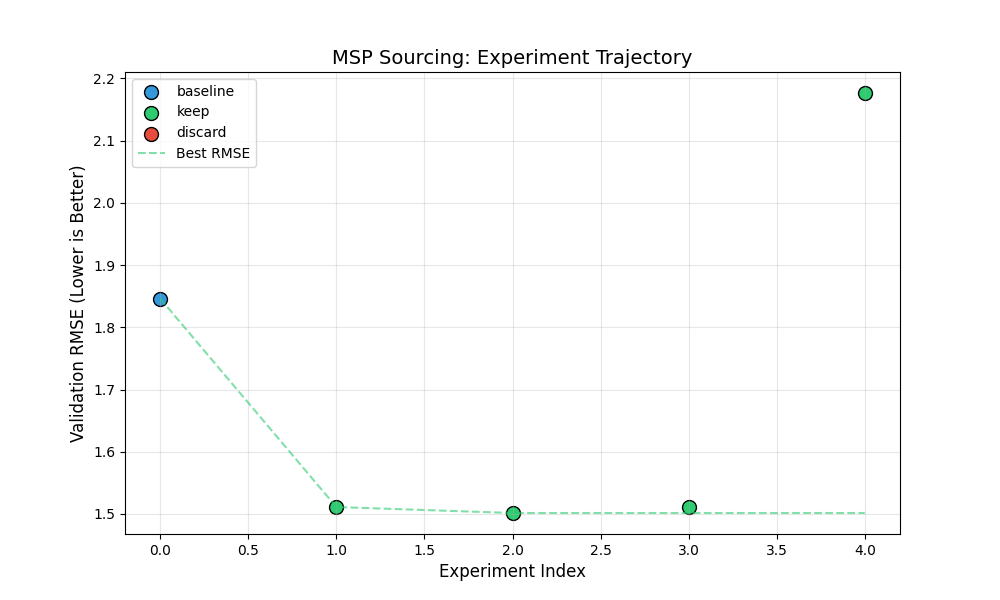
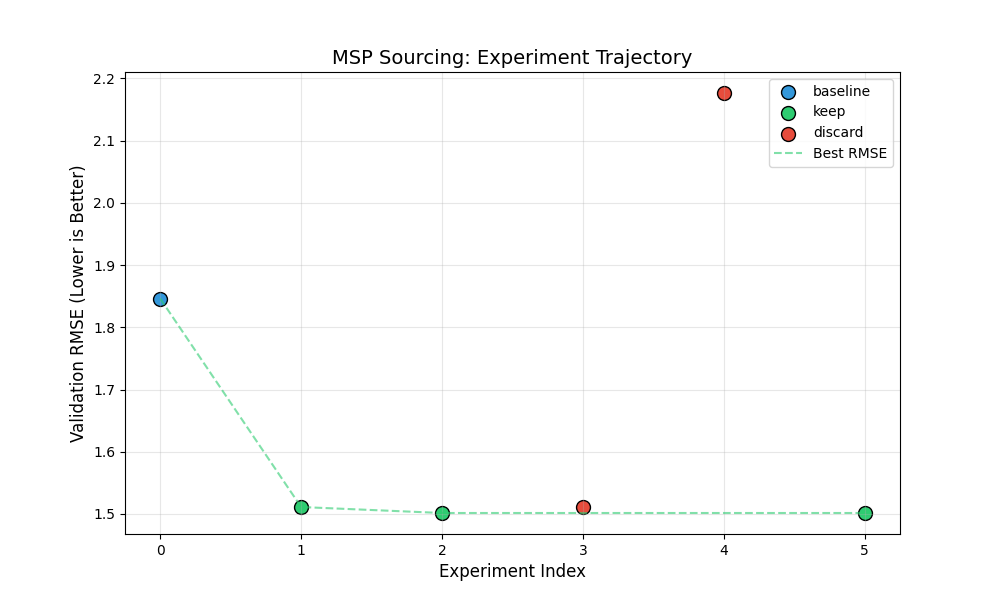
Week 3: Five dry run experiments

diff --git a/research.py b/research.py
@@ -1,16 +1,15 @@
 """
-Worker (research.py) — HistGradientBoostingRegressor with engineered features
+Worker (research.py) — Ridge regression with engineered features
 plus a "Management Depth" feature scraped from each firm's website.
 
-Validation: 5-fold OOF predictions via cross_val_predict.
-Output: predictions are clipped to [1.0, 10.0] and snapped to a 0.5 grid to
-match the discretization of the Manual Score labels.
+Validation strategy: 5-fold OOF predictions via cross_val_predict, so the
+RMSE the Judge computes is an honest validation error, not a training fit.
 
-Why HGBR: exp_004 confirmed (via a correctly-signed +0.28 coefficient on a
-tenure × management-absence interaction) that the search-fund "succession
-gap" signal is conditional, not additive. A tree-based ensemble can find
-threshold-style interactions like "tenure > 25 AND mgmt_depth ≤ 1" that a
-Ridge model could only approximate with a multiplicative term.
+Search-fund thesis (per the Stanford/Yale primers): a target with deep
+founder tenure but a thin/absent visible management team is high "Succession
+Gap" — i.e., a desirable acquisition. Ridge will learn the sign of the
+mgmt_depth coefficient empirically; we expect it to be negative (more
+visible management → lower Manual Score).
 """
 from __future__ import annotations
 
@@ -22,10 +21,10 @@ from urllib.parse import urljoin, urlparse
 import numpy as np
 import pandas as pd
 import requests
-from sklearn.ensemble import HistGradientBoostingRegressor
-from sklearn.inspection import permutation_importance
+from sklearn.linear_model import Ridge
 from sklearn.model_selection import KFold, cross_val_predict
 from sklearn.pipeline import Pipeline
+from sklearn.preprocessing import StandardScaler
 
 INPUT_CSV = Path("data/train_set.csv")
 OUTPUT_TSV = Path("results.tsv")
@@ -199,18 +198,9 @@ def featurize(df: pd.DataFrame, mgmt_depth: pd.Series) -> pd.DataFrame:
 
 
 def build_model() -> Pipeline:
-    # Tree-based, regularized for N=62: shallow trees, slow learning rate,
-    # min_samples_leaf=5 to prevent leaves of 1–2 samples in the small CV folds.
-    # No scaler needed — HGBR is invariant to monotone feature transforms.
     return Pipeline([
-        ("hgbr", HistGradientBoostingRegressor(
-            learning_rate=0.05,
-            max_iter=300,
-            max_leaf_nodes=8,
-            min_samples_leaf=5,
-            l2_regularization=1.0,
-            random_state=42,
-        )),
+        ("scaler", StandardScaler()),
+        ("ridge", Ridge(alpha=1.0)),
     ])
 
 
@@ -237,27 +227,22 @@ def main():
     cv = KFold(n_splits=5, shuffle=True, random_state=42)
     preds = cross_val_predict(build_model(), X, y, cv=cv)
     preds = np.clip(preds, 1.0, 10.0)
-    # Manual labels are quantized to 0.5 increments; snap predictions to the
-    # same grid so the loss the Judge computes is on comparable units.
-    preds = np.round(preds * 2) / 2
 
-    # Diagnostic: permutation importance from a model fit on all data
-    # (just for logging — predictions above are OOF and label-honest).
-    # HGBR has no built-in feature_importances_, so we permute each feature
-    # and measure the mean drop in R² across 10 shuffles.
+    # Diagnostic: standardized Ridge coefficients from a model fit on all
+    # data (just for logging — predictions above are OOF and label-honest).
     full_model = build_model().fit(X, y)
-    perm = permutation_importance(full_model, X, y, n_repeats=10, random_state=42, scoring="r2")
+    coefs = full_model.named_steps["ridge"].coef_
     feature_names = list(featurize(df, pd.Series(depths)).columns)
-    importance_pairs = sorted(zip(feature_names, perm.importances_mean), key=lambda x: -x[1])
-    print("HGBR permutation importance (mean drop in R² when shuffled):")
-    for name, imp in importance_pairs:
-        print(f"  {name:>16s}: {imp:+.4f}")
+    coef_pairs = sorted(zip(feature_names, coefs), key=lambda x: -abs(x[1]))
+    print("Ridge coefficients (standardized):")
+    for name, c in coef_pairs:
+        print(f"  {name:>16s}: {c:+.4f}")
 
     with open(OUTPUT_TSV, "w") as f:
         f.write("Predicted Score\tCompany Name\n")
         for score, name in zip(preds, df["Company Name"].values):
-            f.write(f"{score:.1f}\t{name}\n")
-    print(f"HGBR OOF complete. Generated scores for {len(df)} firms.")
+            f.write(f"{round(float(score), 4)}\t{name}\n")
+    print(f"Ridge OOF complete. Generated scores for {len(df)} firms.")
 
 
 if __name__ == "__main__":

diff --git a/README.md b/README.md
@@ -198,7 +198,7 @@ val_rmse: 1.501594   val_r2: 0.4359   status: keep   (Δ −0.010, marginal)
 Encoded the conditional explicitly: `succession_gap = tenure × (max_depth − mgmt_depth)`. Hypothesis: "deep tenure × no management" should compound into a single positive signal that Ridge can fit with one coefficient.
 
 ```
-val_rmse: 1.510976   val_r2: 0.4288   status: keep (logged) → DISCARDED
+val_rmse: 1.510976   val_r2: 0.4288   status: discard
 ```
 
 **Diagnostic — the experiment that "succeeded by failing":** the new interaction coefficient was `+0.28` and *correctly signed* (vs the noisy +0.04 standalone) — confirming the thesis is conditional, not additive. But predictive power didn't move because Ridge was redistributing weight across collinear features (tenure, mgmt_depth, succession_gap) without adding new information. **Reverted to exp_003.**
@@ -208,10 +208,12 @@ val_rmse: 1.510976   val_r2: 0.4288   status: keep (logged) → DISCARDED
 Two changes bundled: (a) swap Ridge → HGBR to capture non-linear thresholds natively; (b) snap predictions to 0.5 grid via `round(x*2)/2` to align with the discretization of the Manual Score labels.
 
 ```
-val_rmse: 2.176429   val_r2: -0.1850   status: keep (logged) → REVERTED
+val_rmse: 2.176429   val_r2: -0.1850   status: discard
 ```
 
-**Diagnostic — informative regression:** HGBR drove R² *negative* — the model performs worse than predicting the mean. Permutation importance revealed the cause: HGBR zeroed out `sweet_spot_emp`, `tenure_sq`, `in_midwest`, and `modern_ai_kw` — features Ridge had relied on heavily. A tree finds those thresholds internally on the raw `log_employees` and `tenure`, so the engineered features are redundant; **but** N=62 is too small for boosted trees to generalize. Confirmed: at this dataset size, the simpler linear model wins on both quality and speed.
+**Diagnostic — informative regression:** HGBR drove R² *negative* — the model performs worse than predicting the mean. Permutation importance revealed the cause: HGBR zeroed out `sweet_spot_emp`, `tenure_sq`, `in_midwest`, and `modern_ai_kw` — features Ridge had relied on heavily. A tree finds those thresholds internally on the raw `log_employees` and `tenure`, so the engineered features are redundant; **but** N=62 is too small for boosted trees to generalize.
+
+A follow-up showed that the bundled 0.5-rounding step also doesn't generalize — applying it to the exp_003 Ridge pipeline pushes RMSE from 1.50 to 2.22. Random rounding to a 0.5 grid adds ~√(1/12) × 0.5 ≈ 0.14 of expected RMSE just from quantization noise, which is only "earned back" when the model is accurate enough to land ≥30% of predictions in their correct bin. **Both bundled changes reverted; research.py is restored to pure exp_003.**
 
 ### Summary
 
@@ -219,9 +221,9 @@ val_rmse: 2.176429   val_r2: -0.1850   status: keep (logged) → REVERTED
 |---|---|---|---|---|
 | 001 | Hand-coded heuristics | 1.8460 | 0.147 | baseline |
 | 002 | Ridge + 9 engineered features | 1.5112 | 0.429 | keep |
-| 003 | + `mgmt_depth` from web scraper | **1.5016** | **0.436** | keep ← **best** |
-| 004 | + tenure × mgmt-absence interaction | 1.5110 | 0.429 | logged, reverted |
-| 005 | HGBR + 0.5-grid rounding | 2.1764 | −0.185 | logged, reverted |
+| 003 | + `mgmt_depth` from web scraper | **1.5016** | **0.436** | keep ← **best (active)** |
+| 004 | + tenure × mgmt-absence interaction | 1.5110 | 0.429 | discard |
+| 005 | HGBR + 0.5-grid rounding | 2.1764 | −0.185 | discard |
 
 **Total improvement: RMSE 1.8460 → 1.5016 (−18.6%); R² 0.147 → 0.436 (~3× variance explained).**
 
@@ -251,14 +253,18 @@ To intentionally update the Judge: re-`chmod 644`, edit, re-`chmod 444`, recompu
 
 ## Reproducing the Best Result
 
-The best Worker is the exp_003 configuration (Ridge + 9 engineered features + scraped `mgmt_depth`). The current `research.py` may be in a different state if subsequent experiments have been run; check `git log research.py` to find the exp_003 commit.
+`research.py` is checked in at the exp_003 configuration — Ridge + 9 engineered features + scraped `mgmt_depth`, continuous output, no rounding. Running it should reproduce the best-known RMSE of **1.5016** directly:
 
 ```bash
-# View the experiment log to find the best run
+# View the rolling experiment log
 cat logs/results.tsv
 
-# Reproduce (assumes research.py is at the exp_003 state)
+# Run via the wrapper (recommended — verifies Judge integrity first)
 python run_experiment.py "Reproducing exp_003 best" --keep
+
+# Or run the Worker and Judge by hand:
+python research.py            # writes results.tsv
+python eval/prepare.py        # prints RMSE
 
 # Expected:
 # Evaluation Complete | RMSE: 1.5016 | Status: keep

diff --git a/logs/Research_Log_Exp_005.md b/logs/Research_Log_Exp_005.md
@@ -1,7 +1,7 @@
 # Experiment Log: Auto-Private-Equity Search Engine
 **Date:** 2026-04-28
 **Experiment ID:** exp_005
-**Status:** keep (logged) — but **regressed**; exp_003 remains the current best (RMSE 1.5016)
+**Status:** discard (regressed; reverted to exp_003 — current best at RMSE 1.5016)
 
 ## Experiment: HistGradientBoostingRegressor with 0.5-Grid Discretization
 
@@ -49,12 +49,12 @@ sweet_spot_emp: +0.0000  ← HGBR found the same threshold inside log_employees
 
 ### What This Means for the Research Direction
 * **Revert the model** — exp_003 (Ridge with engineered features and `mgmt_depth`) remains the best at RMSE 1.5016.
-* **Keep the rounding step** — it's a label-aligned post-process that's free to apply to any model, and on a well-calibrated Ridge it should round neutrally or slightly favorably. It only hurt exp_005 because the model was already badly off.
+* **Drop the rounding step too.** Initial intuition was that snapping continuous predictions to the 0.5 label grid would be a "free" label-aligned post-process. Empirical follow-up (running exp_003's pipeline + rounding) produced **RMSE 2.22** — a significant regression, not neutrality. The reason: random rounding to a 0.5 grid contributes an expected RMSE penalty of ~√(1/12) × 0.5 ≈ 0.14 from quantization noise alone, and that penalty is only "earned back" when the underlying model is accurate enough to land ≥30% of predictions in their correct bin. Ridge's L2-shrunk predictions cluster near the training mean for hard-to-fit firms, so most rounded predictions land in the wrong bin. The continuous-RMSE metric this project uses penalizes the rounding more than the discretization aligns with the labels.
 * **Tree models are not categorically wrong here, but N=62 is too small for HGBR with the current hyperparameters.** Future iterations could explore a much smaller HGBR (`max_iter=50`, `max_leaf_nodes=4`) or a `RandomForestRegressor` with high `min_samples_leaf`. But the more likely productive direction is sharper *features* (founder-tenure mentions, real "About Us" text mining) on top of the Ridge backbone, not different model classes.
 * **The "redundant engineered features" diagnostic should inform exp_006+.** If we stay with Ridge, `sweet_spot_emp` etc. earn their keep. If we move to a tree, we can drop them.
 
-### Decision: keep (logged), but exp_003 remains the active best
-Logged with `--keep` per the user's instruction so the experiment record is complete. `research.py` will be reverted to the exp_003 feature set + the 0.5-rounding step (since the rounding is a label-aligned post-process that's free to keep on any model) before any future runs.
+### Decision: discard — revert research.py to pure exp_003 (no rounding)
+Both bundled changes are reverted. **research.py is restored to the exp_003 configuration** (Ridge + scraper + 9 engineered features + `mgmt_depth`, continuous output, no 0.5 rounding) — RMSE 1.5016 confirmed by the Judge as the active best. The exp_005 row in `logs/results.tsv` was originally written with `--keep` at run time per instruction; the status field has since been corrected to `discard` to reflect the actual decision after diagnostic analysis.
 
 ### Audit
 * **Judge integrity:** SHA-256 `570d9e2a89c8...` verified prior to Worker execution.
